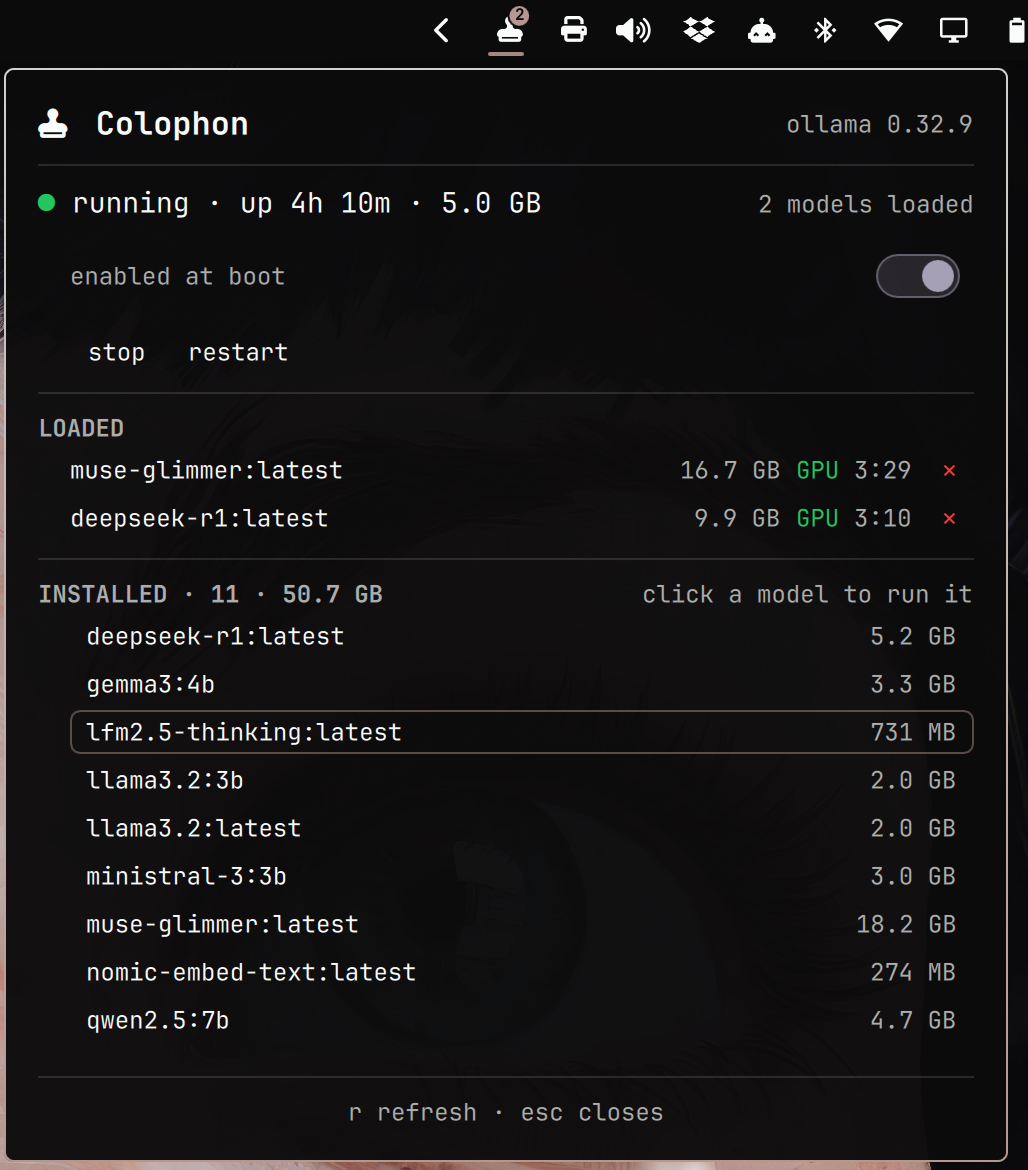
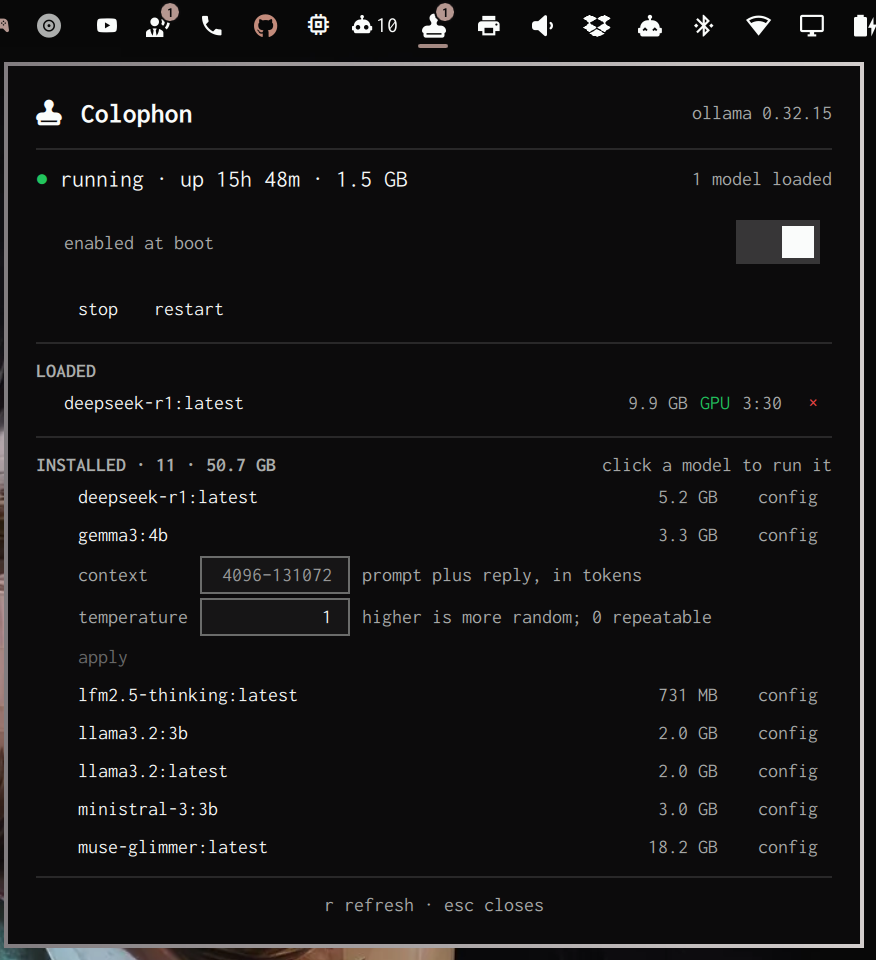
docs: preview.png shows the parameter editor, as of 0.4.0
The old preview predated the feature -- it showed the busy state with two
models resident and no config control anywhere, which made the listing's
primary visual an advertisement for the previous release.

The new one has gemma3:4b expanded into its editor, which puts the whole
design on screen at once: an unset field offering its valid range instead of
a value, a declared value beside it, a caption per parameter, and apply dim
because nothing has been typed.

The alt text and the caption are rewritten with it. They are a coupled pair --
both described two loaded models, a badge of 2 and ollama 0.32.9, none of
which is in the new image.

Claude-Session: https://claude.ai/code/session_01Hj4AJJ6tRy6hMvTZfsSKWk

Changed region(s): [[0.0, 0.0, 1.0, 1.0], [0.7397, 0.875, 0.8322, 0.9062]]

diff --git a/README.md b/README.md
@@ -6,17 +6,25 @@ start it, stop it, restart it, choose whether it starts at boot, load or
 unload models, and edit a model's own parameters, without leaving the bar.
 
 ![The Colophon panel open below the bar: a header reading "Colophon" beside
-"ollama 0.32.9"; a status line "running · up 4h 10m · 5.0 GB" with a green
-dot and "2 models loaded" on the right; an "enabled at boot" line with a
-switch beside it, shown on; stop and restart buttons; a LOADED section listing
-muse-glimmer:latest at 16.7 GB and deepseek-r1:latest at 9.9 GB, each marked
-GPU with a keep-alive countdown and an unload button; and an INSTALLED section
-headed "11 · 50.7 GB" listing the model store](preview.png)
+"ollama 0.32.15"; a status line "running · up 15h 48m · 1.5 GB" with a green
+dot and "1 model loaded" on the right; an "enabled at boot" line with a switch
+beside it, shown on; stop and restart buttons; a LOADED section listing
+deepseek-r1:latest at 9.9 GB, marked GPU with a 3:30 keep-alive countdown and
+an unload button; and an INSTALLED section headed "11 · 50.7 GB" in which
+gemma3:4b is expanded into its parameter editor — a context field showing the
+range 4096–131072 as dim placeholder text, a temperature field holding 1, a
+dim caption beside each explaining what it does, and a dimmed apply
+button](preview.png)
 
-Above: the busy state — two models resident on the GPU, their keep-alive
-timers counting down, and the bar glyph carrying a badge of `2`. The glyph's
-color stays the default foreground while nothing is wrong; severity reaches
-the bar as color, and the badge only ever carries a count.
+Above: the parameter editor open on `gemma3:4b`. The empty `context` field is
+a model that does not set that parameter, so the field offers its valid range
+rather than a value; `temperature` shows the `1` the model actually declares.
+`apply` is dim because nothing has been typed — it lights only for a change
+you made, and it is the only thing that writes. Every installed row carries
+its own `config`, and the bar glyph carries a badge of `1` for the single
+resident model. The glyph's color stays the default foreground while nothing
+is wrong; severity reaches the bar as color, and the badge only ever carries
+a count.
 
 ## Prerequisites
 
